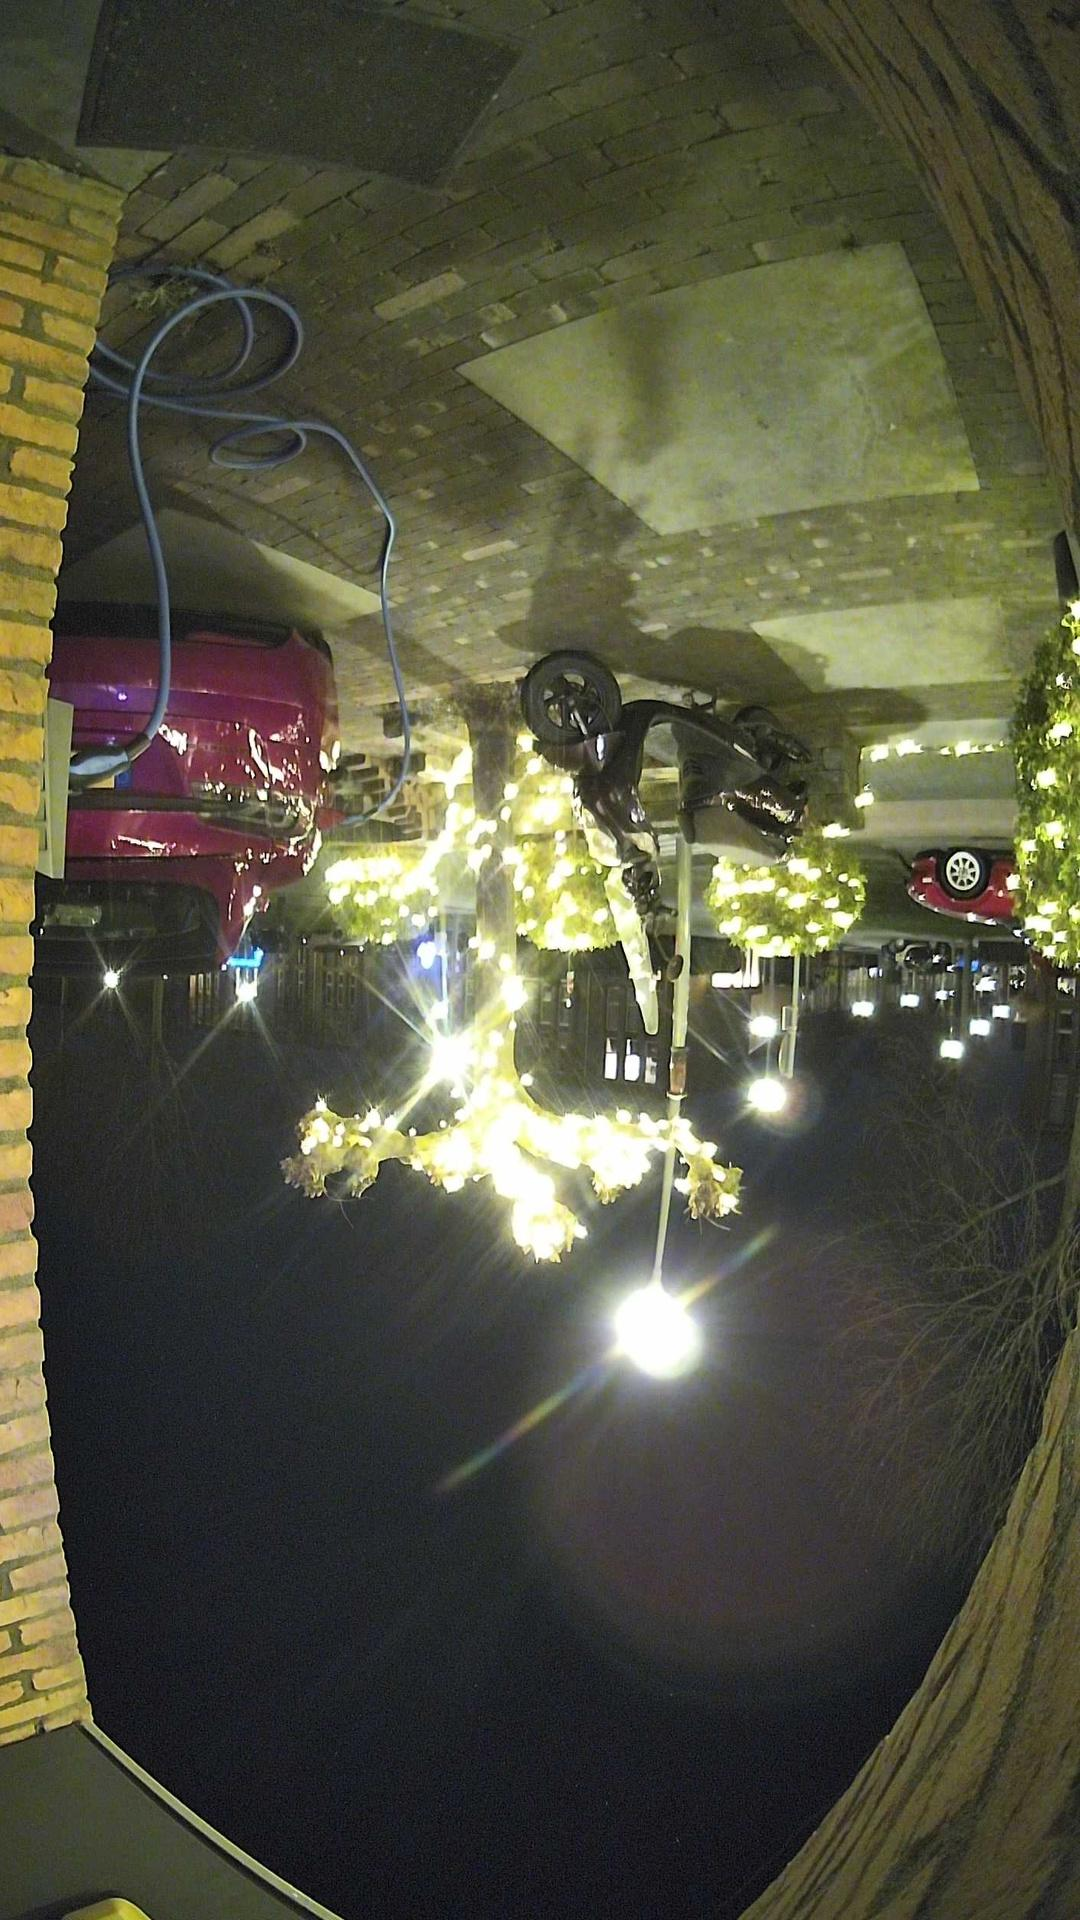
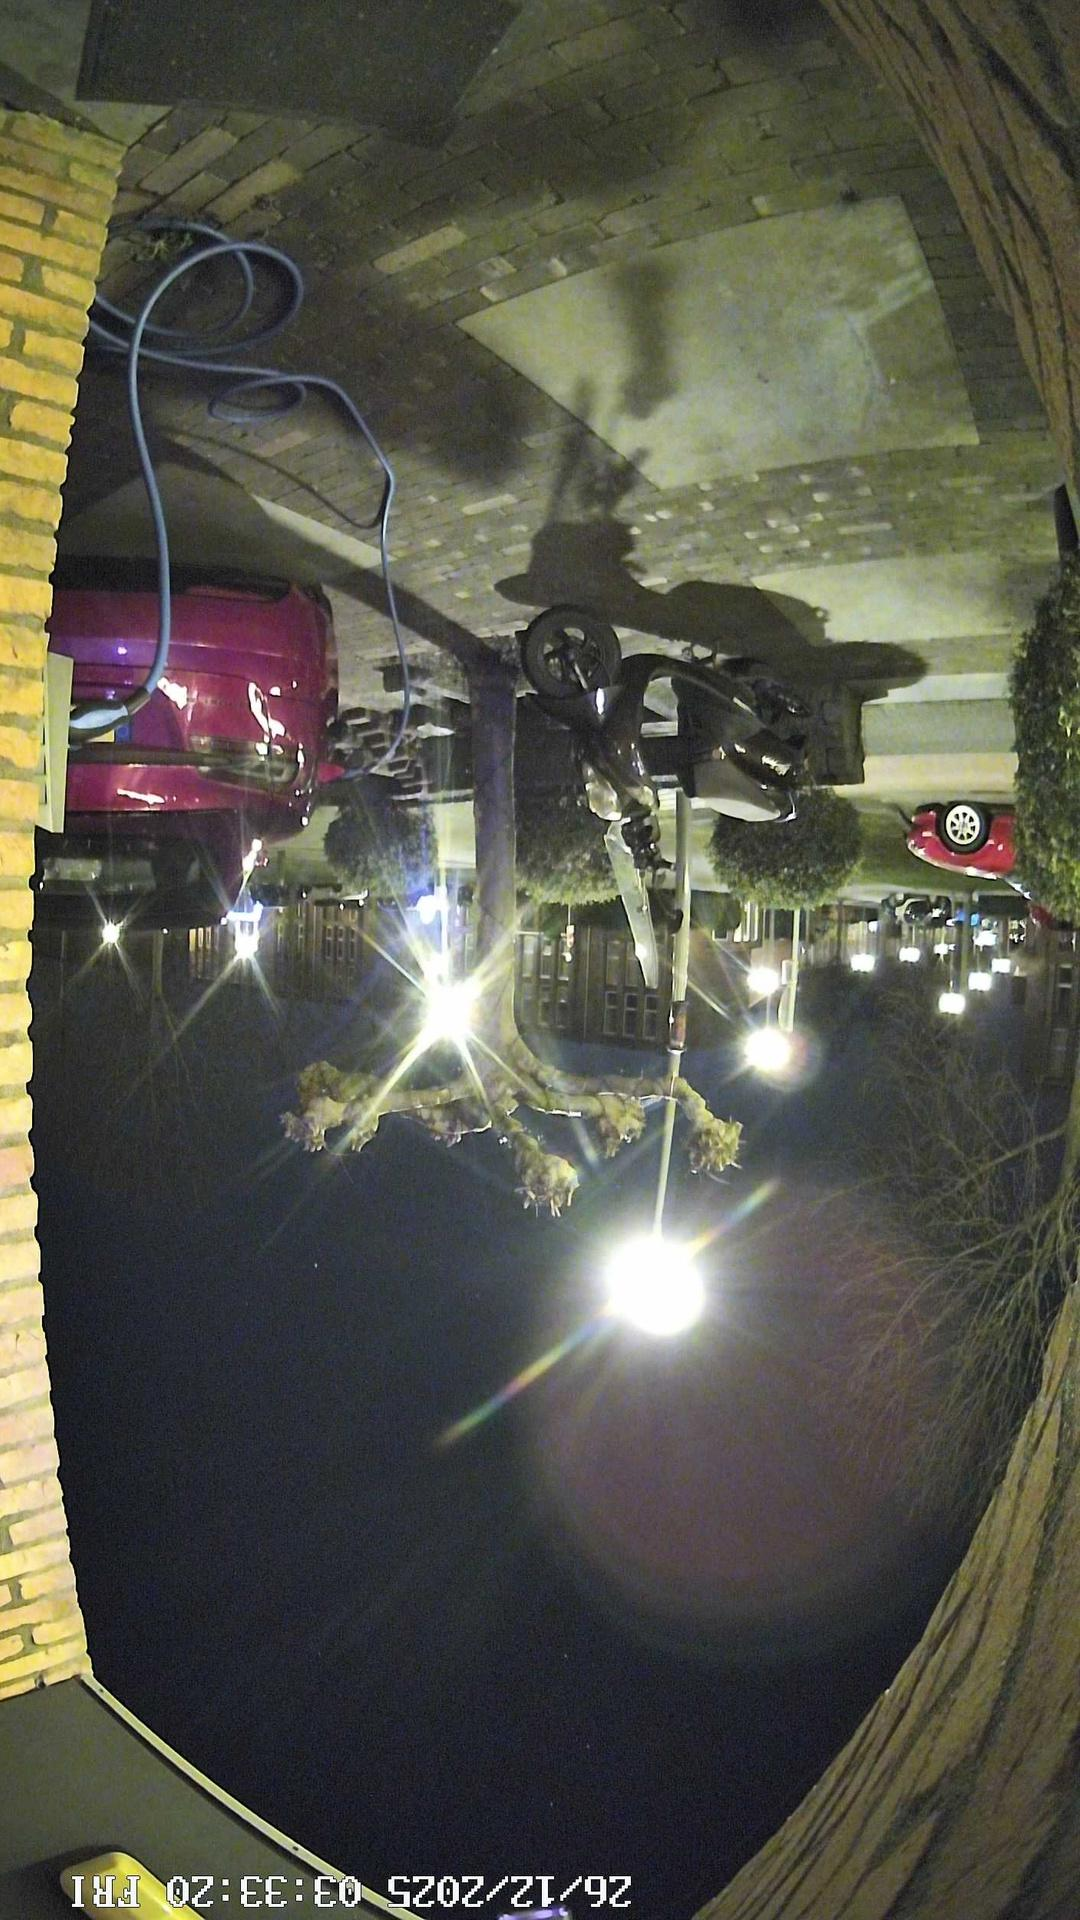
fix eastereggs

diff --git a/backend/server.py b/backend/server.py
@@ -315,6 +315,24 @@ def list_images() -> dict[str, Any]:
     out.sort(key=lambda x: x["filename"].lower())
     return {"images": out}
 
+@app.get("/eastereggs/{filename}")
+def get_easteregg(filename: str) -> dict[str, Any]:
+    path = os.path.join(EASTER_EGGS_DIR, filename)
+    if not os.path.exists(path):
+        raise HTTPException(status_code=404, detail="Image not found on disk")
+    return FileResponse(path, media_type=get_media_type(path))
+
+def get_media_type(path: str) -> str:
+    if path.endswith(".png"):
+        return "image/png"
+    if path.endswith(".jpg"):
+        return "image/jpeg"
+    if path.endswith(".jpeg"):
+        return "image/jpeg"
+    if path.endswith(".webp"):
+        return "image/webp"
+    return "application/octet-stream"
+
 @app.get("/api/override")
 def get_override() -> dict[str, Any]:
     data = _load_override()
@@ -601,7 +619,7 @@ def fetch_and_process_doorbell_snapshot():
         # img.crop((left, top, right, bottom))
         w, h = img.size
         # Cut 60 from top
-        img = img.crop((0, 0, w, h - 60))
+        img = img.crop((0, 60, w, h))
         w, h = img.size # 1920 x 2500
         
         # 2. Resize so height becomes 1920
@@ -718,30 +736,13 @@ def _handle_doorbell(data: dict[str, Any], background_tasks: BackgroundTasks) ->
     filename = "doorbell.jpg"
     _save_override(filename)
     
-    # Start Transcoding
-    start_transcoding()
+    # Start Transcoding - DISABLED
+    # start_transcoding()
     
-    # Wait a bit for HLS to generate first segment
-    # This effectively makes the webhook async/slow if we await, but we are in sync function here if called directly.
-    # Actually _handle_doorbell is sync. We should probably background this or just accept the latency.
-    # But AirPlay needs the URL to be valid.
-    
-    # Try DLNA Stream (HLS)
+    # DLNA Stream - DISABLED
     # local_ip = get_local_ip()
     # stream_url = f"http://{local_ip}:8000/hls/playlist.m3u8"
-    
     # print(f"[Doorbell] Attempting DLNA stream to TV: {stream_url}", flush=True)
-    
-    # We delay the command slightly to let ffmpeg create the playlist
-    # async def delayed_play():
-    #    await asyncio.sleep(2)  # Reduced wait time since segments are shorter
-    #    # First try DLNA (more reliable for Samsung TVs with custom HLS)
-    #    success = await asyncio.to_thread(play_url_via_dlna, stream_url)
-    #    if not success:
-    #         print("[Doorbell] DLNA failed, falling back to AirPlay...", flush=True)
-    #         await play_url_on_tv(stream_url)
-        
-    # background_tasks.add_task(delayed_play)
     
     # 4. Immediate TV Update (First Frame) - ONLY if enabled
     if USE_PYTHON_DOORBELL_PUSH:
@@ -779,7 +780,7 @@ async def _handle_doorbell_off() -> dict[str, Any]:
     # await asyncio.to_thread(stop_dlna)
     
     # Stop Transcoding
-    stop_transcoding()
+    # stop_transcoding()
     
     # 1. Clear Override
     _save_override(None)
